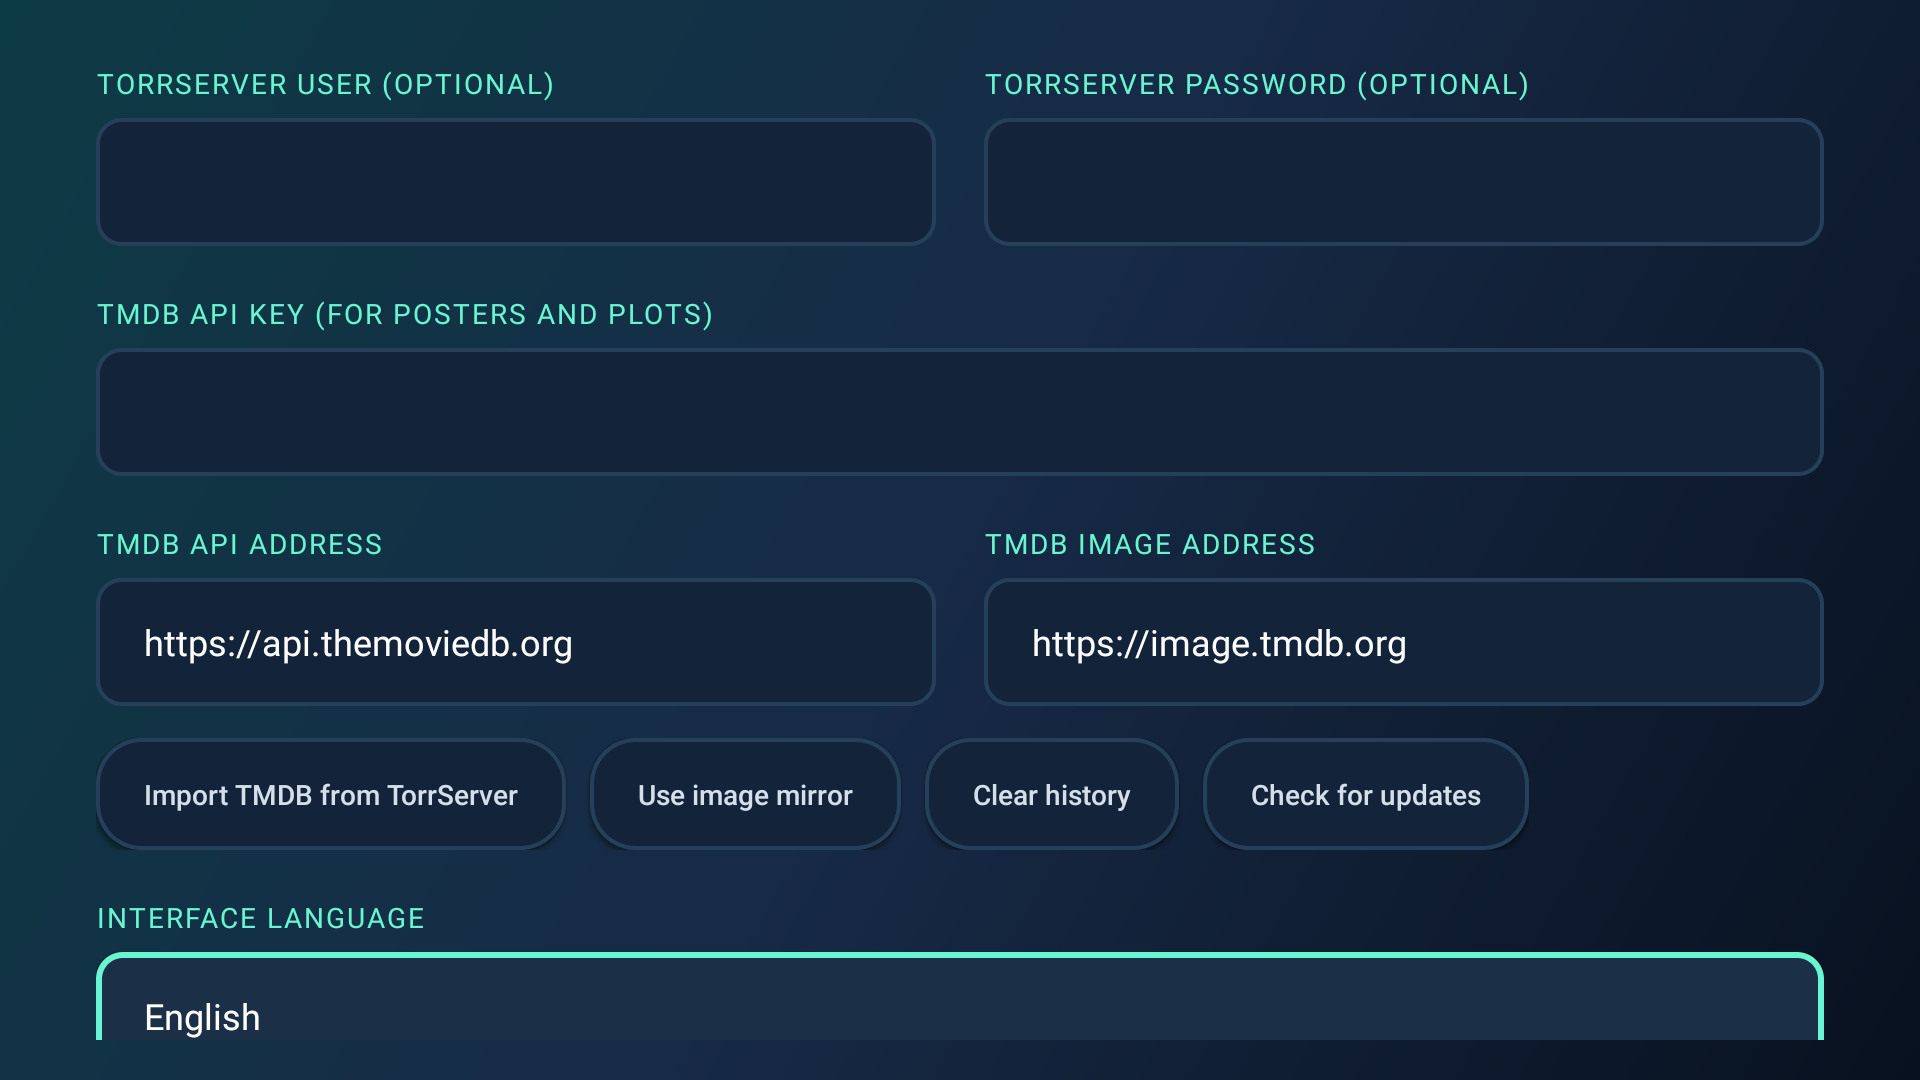
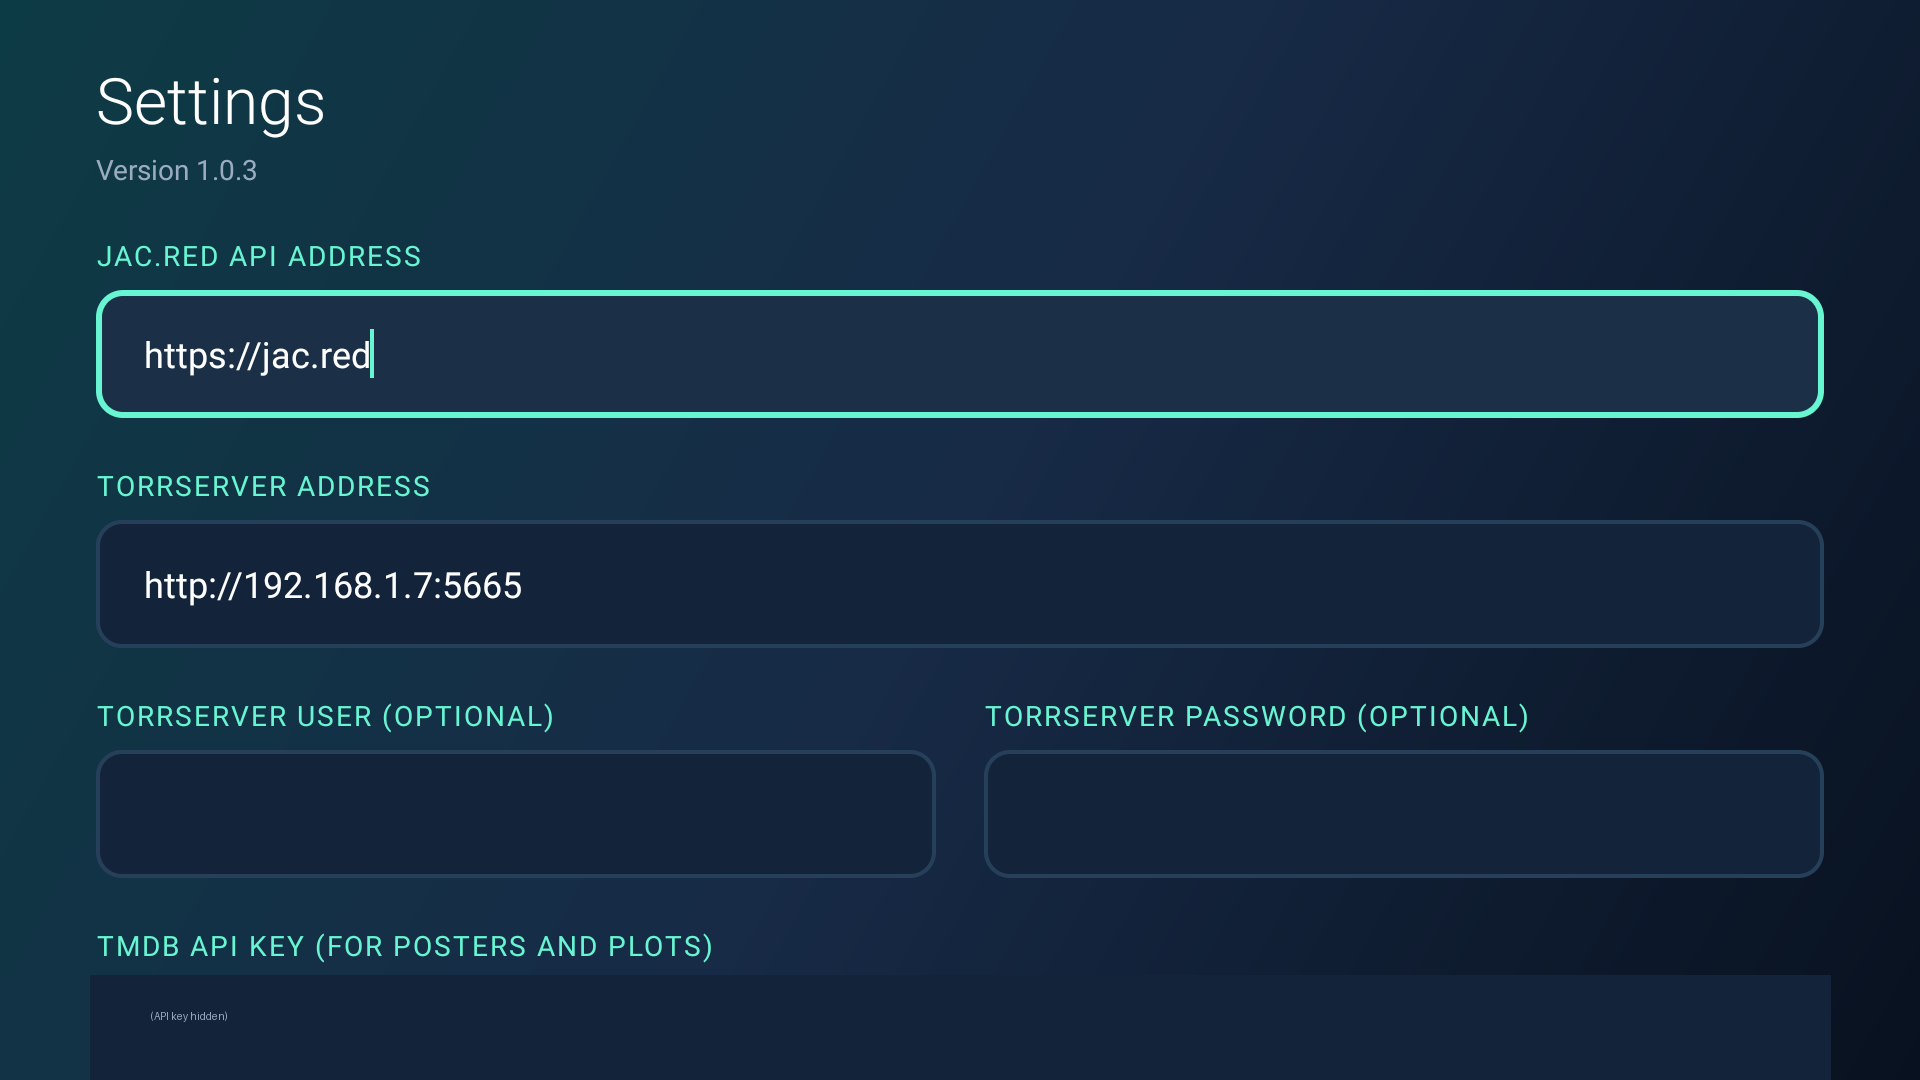
docs: keep previous settings and titles screenshots

diff --git a/README.md b/README.md
@@ -28,9 +28,8 @@ The app has no third-party dependencies: Android framework, `org.json` and
 
 ![Settings](docs/screenshots/05-settings.png)
 
-**Settings** — TorrServer credentials, TMDB key and addresses, image mirror, history,
-**Check for updates** and the interface language. Captured on the Mi Box at 1080p; the TMDB
-key is painted out.
+**Settings** — jac.red and TorrServer addresses, TMDB credentials, default player, and
+**Check for updates**. Captured on the Mi Box at 1080p; the TMDB key is painted out.
 
 ## Requirements
 
